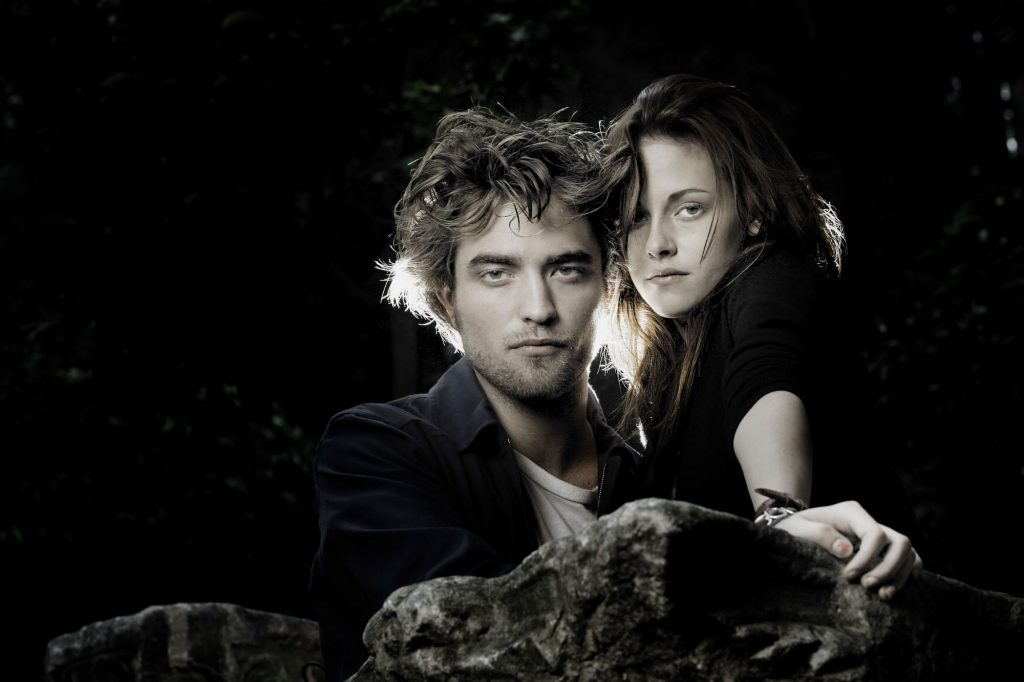
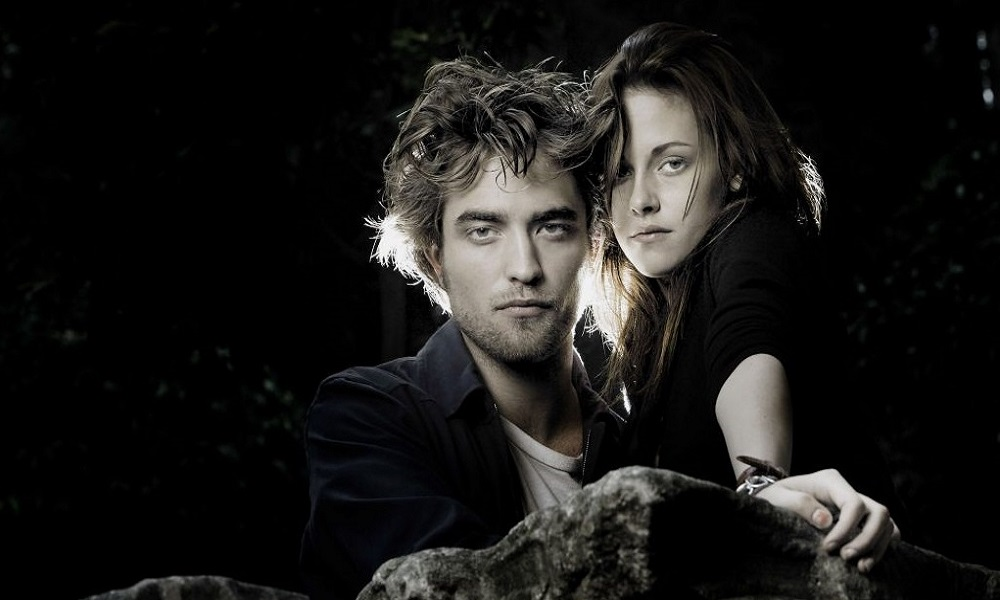
commit

diff --git a/src/app/personal-info/personal-info.component.html b/src/app/personal-info/personal-info.component.html
@@ -1,64 +1,74 @@
-<div class="container-fluid" style="background-color: black;">
-  <div class="row  d-flex justify-content-center mb-5" style="height:130vh;">
-    <div class="col-10 d-flex justify-content-center" style="height: 100%;">
+<div class="container-fluid" style="background-color: black;margin-top: 5px;">
+  <div class="row  d-flex justify-content-center mb-5" style="height: 100vh;">
+    <div class="col-10 d-flex justify-content-center" style="height: 100%; width: 100%;">
       <ngb-carousel *ngIf="images">
         <ng-template ngbSlide style="height: 60%; width: 100%;">
-          <div class="picsum-img-wrapper d-flex justify-content-center" style="max-height: 100%; max-width: 100%;">
-            <img [src]="images[0]" alt="Random first slide" style="height: 100%; width: 100%;">
+          <div class="picsum-img-wrapper d-flex justify-content-center" style="height: 100%; width: 100%;">
+            <img [src]="images[0]" alt="Random first slide" style="height: 100%; width: 100%;object-fit: cover;">
           </div>
-          <div class="carousel-caption">
-            <h3>10 seconds between slides...</h3>
-            <p>This carousel uses customized default values.</p>
-          </div>
+          <a href="https://www.youtube.com/watch?v=uxjNDE2fMjI">
+            <div class="carousel-caption"
+              style="color: rgb(247, 20, 216);font-weight: bold;font-family: 'Segoe UI', Tahoma, Geneva, Verdana, sans-serif;">
+              <h3>The twillight Saga</h3>
+              <p>Releasing on 23rd May</p>
+            </div>
+          </a>
         </ng-template>
         <ng-template ngbSlide style="height: 60%; width: 100%;">
-          <div class="picsum-img-wrapper d-flex justify-content-center" style="max-height: 100%; max-width: 100%;">
-            <img [src]="images[1]" alt="Random second slide" style="height: 60%; width: 100%;">
+          <div class="picsum-img-wrapper d-flex justify-content-center" style="height: 100%; width: 100%;">
+            <img [src]="images[1]" alt="Random second slide" style="height: 100%; width: 100%;object-fit: cover;">
           </div>
-          <div class="carousel-caption">
-            <h3>No mouse events...</h3>
-            <p>This carousel doesn't pause or resume on mouse events</p>
-          </div>
+          <a href="https://www.youtube.com/watch?v=uxjNDE2fMjI">
+            <div class="carousel-caption"
+              style="color: rgb(247, 20, 216);font-weight: bold;font-family: 'Segoe UI', Tahoma, Geneva, Verdana, sans-serif;">
+              <h3>The twillight Saga</h3>
+              <p>Releasing on 23rd May</p>
+            </div>
+          </a>
         </ng-template>
         <ng-template ngbSlide style="height: 60%; width: 100%;">
-          <div class="picsum-img-wrapper d-flex justify-content-center" style="max-height: 100%; max-width: 100%;">
-            <img [src]="images[2]" alt="Random third slide" style="height: 60%; width: 100%;">
+          <div class="picsum-img-wrapper d-flex justify-content-center" style="height: 100%; width: 100%;">
+            <img [src]="images[2]" alt="Random third slide" style="height: 100%; width: 100%;object-fit: cover;">
           </div>
-          <div class="carousel-caption">
-            <h3>No keyboard...</h3>
-            <p>This carousel uses customized default values.</p>
-          </div>
+          <a href="https://www.youtube.com/watch?v=uxjNDE2fMjI">
+            <div class="carousel-caption"
+              style="color: rgb(247, 20, 216);font-weight: bold;font-family: 'Segoe UI', Tahoma, Geneva, Verdana, sans-serif;">
+              <h3>The twillight Saga</h3>
+              <p>Releasing on 23rd May</p>
+            </div>
+          </a>
         </ng-template>
         <ng-template ngbSlide style="height: 60%; width: 100%;">
-          <div class="picsum-img-wrapper d-flex justify-content-center" style="max-height: 100%; max-width: 100%;">
-            <img [src]="images[3]" alt="Random fourth slide" style="height: 60%; width: 100%;">
+          <div class="picsum-img-wrapper d-flex justify-content-center" style="height: 100%; width: 100%;">
+            <img [src]="images[3]" alt="Random fourth slide" style="height: 100%; width: 100%;object-fit: cover;">
           </div>
-          <div class="carousel-caption">
-            <h3>And no wrap after last slide.</h3>
-            <p>This carousel uses customized default values.</p>
-          </div>
+          <a href="https://www.youtube.com/watch?v=uxjNDE2fMjI">
+            <div class="carousel-caption"
+              style="color: rgb(247, 20, 216);font-weight: bold;font-family: 'Segoe UI', Tahoma, Geneva, Verdana, sans-serif;">
+              <h3>The twillight Saga</h3>
+              <p>Releasing on 23rd May</p>
+            </div>
+          </a>
         </ng-template>
       </ngb-carousel>
     </div>
   </div>
 
 
-  <div class="row d-flex justify-content-center mt-3">
+  <div class="row mt-3 " style="display: flex;justify-content: center;">
     <ng-container *ngFor="let item of list" class="mt-5">
-      <div class="col-3 my-3 ml-5 p-3" *ngIf="item.show">
+      <div class="col-3 my-3 ml-4 mr-4 p-3 rounded" *ngIf="item.show"
+        style="border: solid 1px whitesmoke;background-color: rgb(32, 31, 31)">
 
 
-        <div class="row" style="height: 70%;" (click)=contentPage(item.title)>
-          <img [src]="item.img" class="border border-white "
-            style="padding: 2px; width: 100%; max-height: 100%;border-radius: 5px;">
+        <div class="row" style="height: 80%;" (click)=contentPage(item.title)>
+          <img [src]="item.img" style="padding: 2px; width: 100%; max-height: 100%;border-radius: 5px;">
         </div>
 
-        <div class="row" style="height: 10%;display: flex; align-items: center;">
-          <div style="color: whitesmoke;font-size:22px;font:bold;padding-left: 10px;"> {{ item.rating }}</div>
-        </div>
+
 
         <div class="row" style="height: 10%;display: flex; align-items: center;">
-          <a routerLink="">
+          <a routerLink="/home/Tenet">
             <div style="color: whitesmoke;font-size:22px;font:bold;padding-left: 10px;"> {{ item.title }}</div>
           </a>
         </div>
@@ -69,88 +79,19 @@
         </div>
 
 
-
-        <!-- <h5>{{ item.title }}</h5>
-
-
-        <div (click)="contentPage(item.title)">
-
-          <img [src]="item.img" alt="" style="height: 100%; width: 100%; object-fit: cover" />
-        </div>
-
-        <div>
-          <div></div>
-        </div> -->
-        <!-- <button class="btn btn-outline-secondary" (click)="showDetailsModal(item)">
-          Show Details
-        </button> -->
       </div>
     </ng-container>
+  </div>
+  <div class="row"
+    style="height: 150px;display: flex; justify-content: center;background-color: rgb(32, 31, 31);margin-top: 50px;">
+
+    <div class="col-10 margin-top: 50px;">
+      <div class="row" style="height: 50%;display: flex;justify-content: center;padding:25px">
+        <h4 style="color:whitesmoke;"> A Project by Team 6</h4>
+      </div>
+      <div class="row" style="height: 40%;display: flex;justify-content: center; padding: 5px;">
+        <p style="color:whitesmoke;"> CDAC JUHU FEB 2020</p>
+      </div>
+    </div>
   </div>
 </div>
-
-
-<!-- content box -->
-<!-- <div class="row" style="display: flex;height: 625px; margin-top: 45px;margin-bottom: 10px">
-    <h3 style="color: goldenrod; padding-top: 12px;padding-left: 10px;">Explore Ratings & Reviews</h3>
-    <ng-container *ngFor="let item of list">
-      <div class="col-4 my-3" *ngIf="item.show" style="background-color: rgb(32, 31, 31);">
-     
-        <div class="row" style="height: 70%;">
-          <img [src]="item.img" class="col-3" style="padding: 2px; width: 100%; max-height: 100%;border-radius: 5px;">
-        </div>
-
-        <div class="row" style="height: 10%;display: flex; align-items: center;">
-          <div style="color: whitesmoke;font-size:22px;font:bold;padding-left: 10px;"> {{ item.rating }}</div>
-        </div>
-
-        <div class="row" style="height: 10%;display: flex; align-items: center;">
-          <a routerLink="">
-            <div style="color: whitesmoke;font-size:22px;font:bold;padding-left: 10px;"> {{ item.title }}</div>
-          </a>
-        </div>
-        <div class="row" style="height: 10%;display: flex; align-items: center;">
-          <a href="https://www.youtube.com/watch?v=uxjNDE2fMjI">
-            <div style="color: whitesmoke;font-size:22px;font:bold;padding-left: 10px;"> Trailer</div>
-          </a>
-        </div>
-      </div>
-    </ng-container>
-  </div>
-</div> -->
-
-
-
-
-
-<!-- <div class="container">
-    <div class="row">
-      <ng-container *ngFor="let item of list">
-        <div class="col-4 my-3" *ngIf="item.show">
-          <h5>{{ item.title }}</h5>
-
-
-          <div (click)="contentPage(item.title)">
-
-            <img [src]="item.img" alt="" style="height: 100%; width: 100%; object-fit: cover" />
-          </div>
-
-          <button class="btn btn-outline-secondary" (click)="showDetailsModal(item)">
-            Show Details
-          </button>
-        </div>
-      </ng-container>
-    </div>
-  </div> -->
-
-<!-- rating box -->
-<!-- <div class="row d-flex justify-content-center mt-5">
-    <div class="col-6 bg-white shadow rounded">
-      <ngb-rating [(rate)]="currentRate" (blur)="myfun()"></ngb-rating>
-      <hr>
-      <pre>Rate: <b>{{currentRate}}</b></pre>
-    </div>
-  </div> -->
-
-
-<!-- </div> -->

diff --git a/src/app/education/education.component.html b/src/app/education/education.component.html
@@ -1,1 +1,19 @@
-<p>education works!</p>
+<div class="container-fluid">
+
+
+    <div class="row"
+        style="height: 250px;display: flex; justify-content: center;align-items: center;background-color: rgb(32, 31, 31);margin-top: 50px;">
+
+        <div class="col-10 margin-top: 50px;">
+            <div class="row" style="height: 50%;display: flex;justify-content: center;padding:25px">
+                <h4 style="color:whitesmoke;"> Team Members</h4>
+            </div>
+            <div class="row" style="height: 20%;display: flex;justify-content: center; padding: 5px;">
+                <p style="color:whitesmoke;"> Kalpesh Patil</p>
+            </div>
+            <div class="row" style="height: 20%;display: flex;justify-content: center; padding: 5px;">
+                <p style="color:whitesmoke;"> Parag Asodekar</p>
+            </div>
+        </div>
+    </div>
+</div>

diff --git a/src/app/register/register.component.ts b/src/app/register/register.component.ts
@@ -29,9 +29,9 @@ export class RegisterComponent implements OnInit {
     id: ['', Validators.required],
     name: ['', Validators.required],
     password: ['', Validators.required],
-    email: ['', Validators.required],
-    birthdate: ['', Validators.required],
-    mobile: ['', Validators.required],
+    email: ['', [Validators.required, Validators.pattern(/([a-zA-Z0-9_\-\.]+)@([a-zA-Z0-9_\-\.]+)\.([a-zA-Z]{2,5})/)]],
+    birthdate: ['', [Validators.required, Validators.pattern(/[0-9]{4}-[0-9]{2}-[0-9]{2}/)]],
+    mobile: ['', [Validators.required, Validators.pattern(/(\+\d{1,3}[- ]?)?\d{10}/)]],
   });
 
 

diff --git a/src/app/page-not-found/page-not-found.component.html b/src/app/page-not-found/page-not-found.component.html
@@ -1,1 +1,8 @@
-<p>page-not-found works!</p>
+<div class="row justify-content-center" style="height: 100vh;">
+    <div class="col-6  d-flex justify-content-center align-items-center">
+        <div class="row">
+            <div class="col-12 d-flex  justify-content-center" style="font-size: 200px;">404</div>
+            <span class="col-12 d-flex  justify-content-center" style="font-size: 50px;">Page Not Found</span>
+        </div>
+    </div>
+</div>

diff --git a/src/styles.css b/src/styles.css
@@ -2,7 +2,7 @@
 @import "~bootstrap/dist/css/bootstrap.css";
 
 .background{
-    background-image: url("./assets/login_back.jpg");
+    background-image: url("/assets/login_back.jpg");
     background-size: cover;
     background-position: center;
 }
